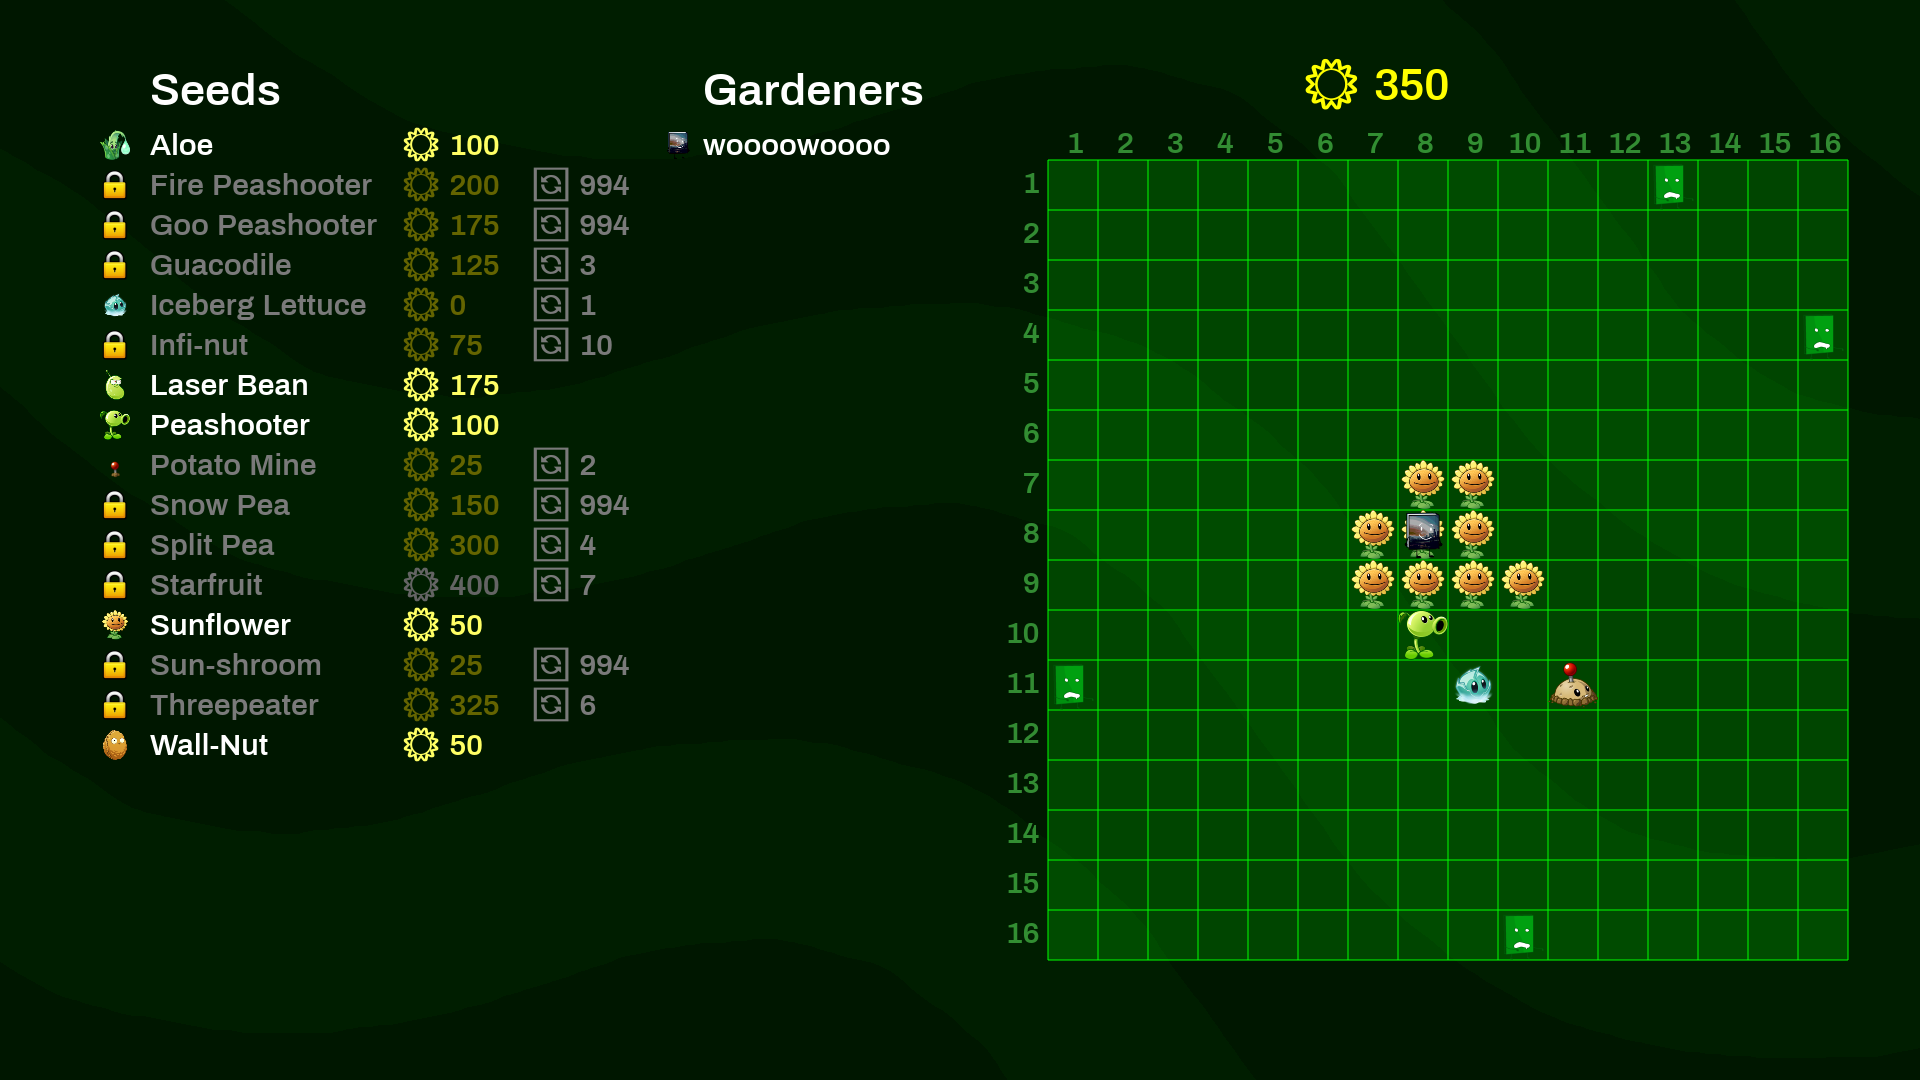
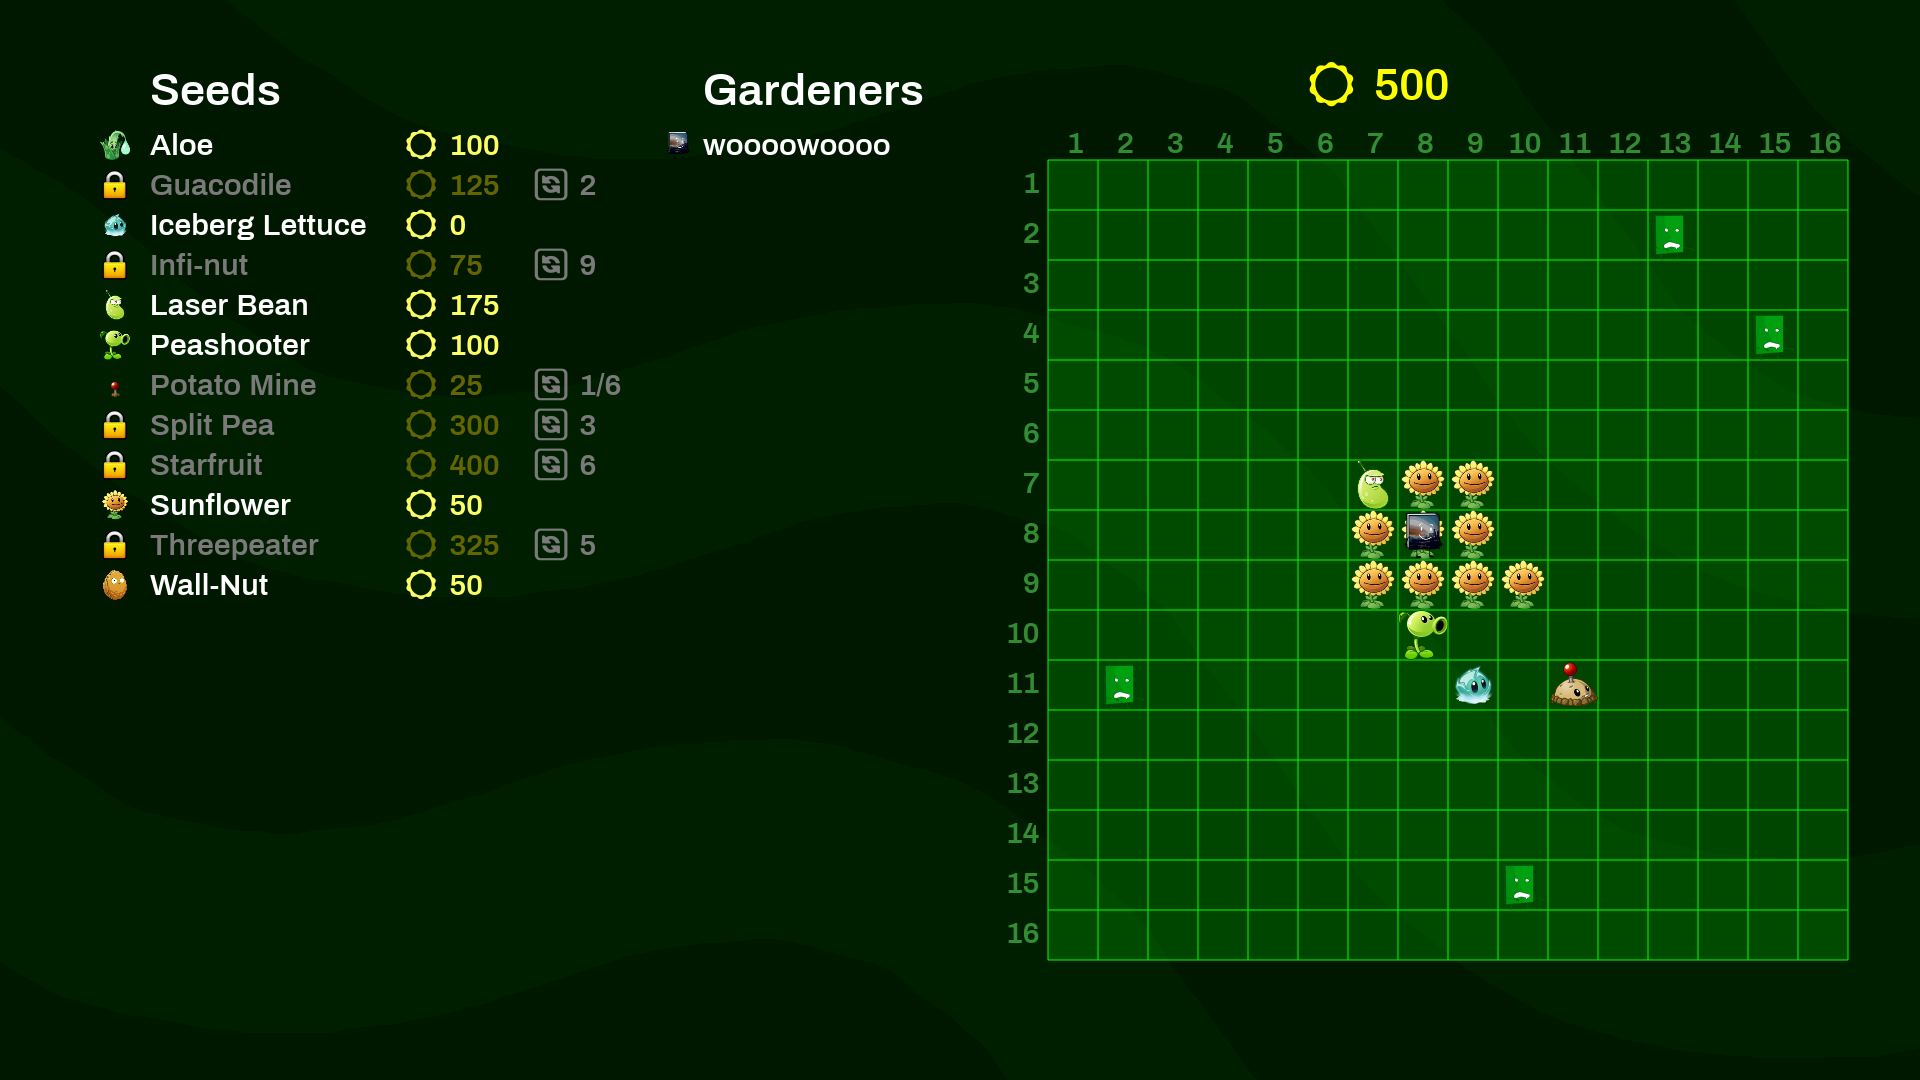
more plants

diff --git a/plants/shooters.js b/plants/shooters.js
@@ -55,6 +55,9 @@ class Peashooter extends Plant {
 		} else {
 			const z_index = zombie_list.indexOf(zombie_colliding);
 			zombie_list[z_index].damage(projectile.damage);
+			if (this.apply_effects) {
+				zombie_list[z_index].add_status(...this.apply_effects);
+			}
 			return new Action({ notes: `Peashooter hit zombie` });
 		}
 	}
@@ -167,20 +170,9 @@ module.exports = {
 		constructor(data) {
 			super({
 				name: `Snow Pea`,
-				sun_cost: 150,
-				apply_effects: [`chill`],
-				unlock_timer: 999,
-			});
-			Object.assign(this, data);
-		}
-	},
-	LilyOfAlchemy: class LilyOfAlchemy extends Peashooter {
-		constructor(data) {
-			super({
-				name: `Lily of Alchemy`,
-				sun_cost: 200,
-				apply_effects: [`chill`],
-				unlock_timer: 999,
+				sun_cost: 175,
+				apply_effects: [{name: `frozen`, time: 1}],
+				hidden: true
 			});
 			Object.assign(this, data);
 		}
@@ -192,7 +184,7 @@ module.exports = {
 				sun_cost: 200,
 				damage: 2,
 				damage_type: `fire`,
-				unlock_timer: 999,
+				hidden: true
 			});
 		}
 	},
@@ -202,7 +194,7 @@ module.exports = {
 				name: `Goo Peashooter`,
 				sun_cost: 175,
 				apply_effects: [`poison`],
-				unlock_timer: 999,
+				hidden: true
 			});
 		}
 	},

diff --git a/index.js b/index.js
@@ -102,7 +102,7 @@ actions.push(
 		}),
 	]
 );
-const ff = 6;
+const ff = 1;
 actions.push(...Array(ff).fill(new Action({ end_turn: true })));
 const valid = actions.validate();
 if (valid) {
@@ -317,7 +317,7 @@ async function drawBG() {
 				`🔄 ${Math.max(
 					temp_plant.unlock_timer,
 					temp_plant.cooldown_timer
-				)}`,
+				)}${temp_plant.unlock_timer <= 0 ? `/${temp_plant.cooldown}` : ``}`,
 				g_offset + 280,
 				155 + 40 * p
 			);
@@ -373,7 +373,7 @@ drawBG().then(() => {
 	const out = fs.createWriteStream(
 		path.join(
 			__dirname,
-			"../dab-activity/getting-started-activity/client/images/state.png"
+			"/web-app/public/images/state.png"
 		)
 	);
 	const b_out = fs.createWriteStream(

diff --git a/almanac.js b/almanac.js
@@ -4,9 +4,16 @@ const plant_path = "./plants";
 const plants = {};
 const plant_categories = fs.readdirSync("./plants");
 plant_categories.forEach((c) => {
+	const plant = require(path.join(__dirname, path.join(plant_path, c)))
+	Object.keys(plant).forEach((p) => {
+		if (new plant[p]().hidden) {
+			delete plant[p]
+		}
+	})
+	console.log(plant)
 	Object.assign(
 		plants,
-		require(path.join(__dirname, path.join(plant_path, c)))
+		plant
 	);
 });
 module.exports = plants;

diff --git a/structures/zombie.js b/structures/zombie.js
@@ -35,6 +35,10 @@ module.exports = class Zombie {
 		this.health -= hp;
 		return this;
 	}
+	addStatus(...statuses) {
+		this.status.push(...statuses)
+		return this
+	}
 	setPosition(x, y) {
 		this.position.x = x;
 		this.position.y = y;

diff --git a/plants/sunflowers.js b/plants/sunflowers.js
@@ -26,8 +26,8 @@ module.exports = {
 				sun_cost: 25,
 				sun_production: 5,
 				max_sun_production: 25,
-				unlock_timer: 999,
 				cooldown: 0,
+				hidden: true
 			});
 			Object.assign(this, data);
 		}
